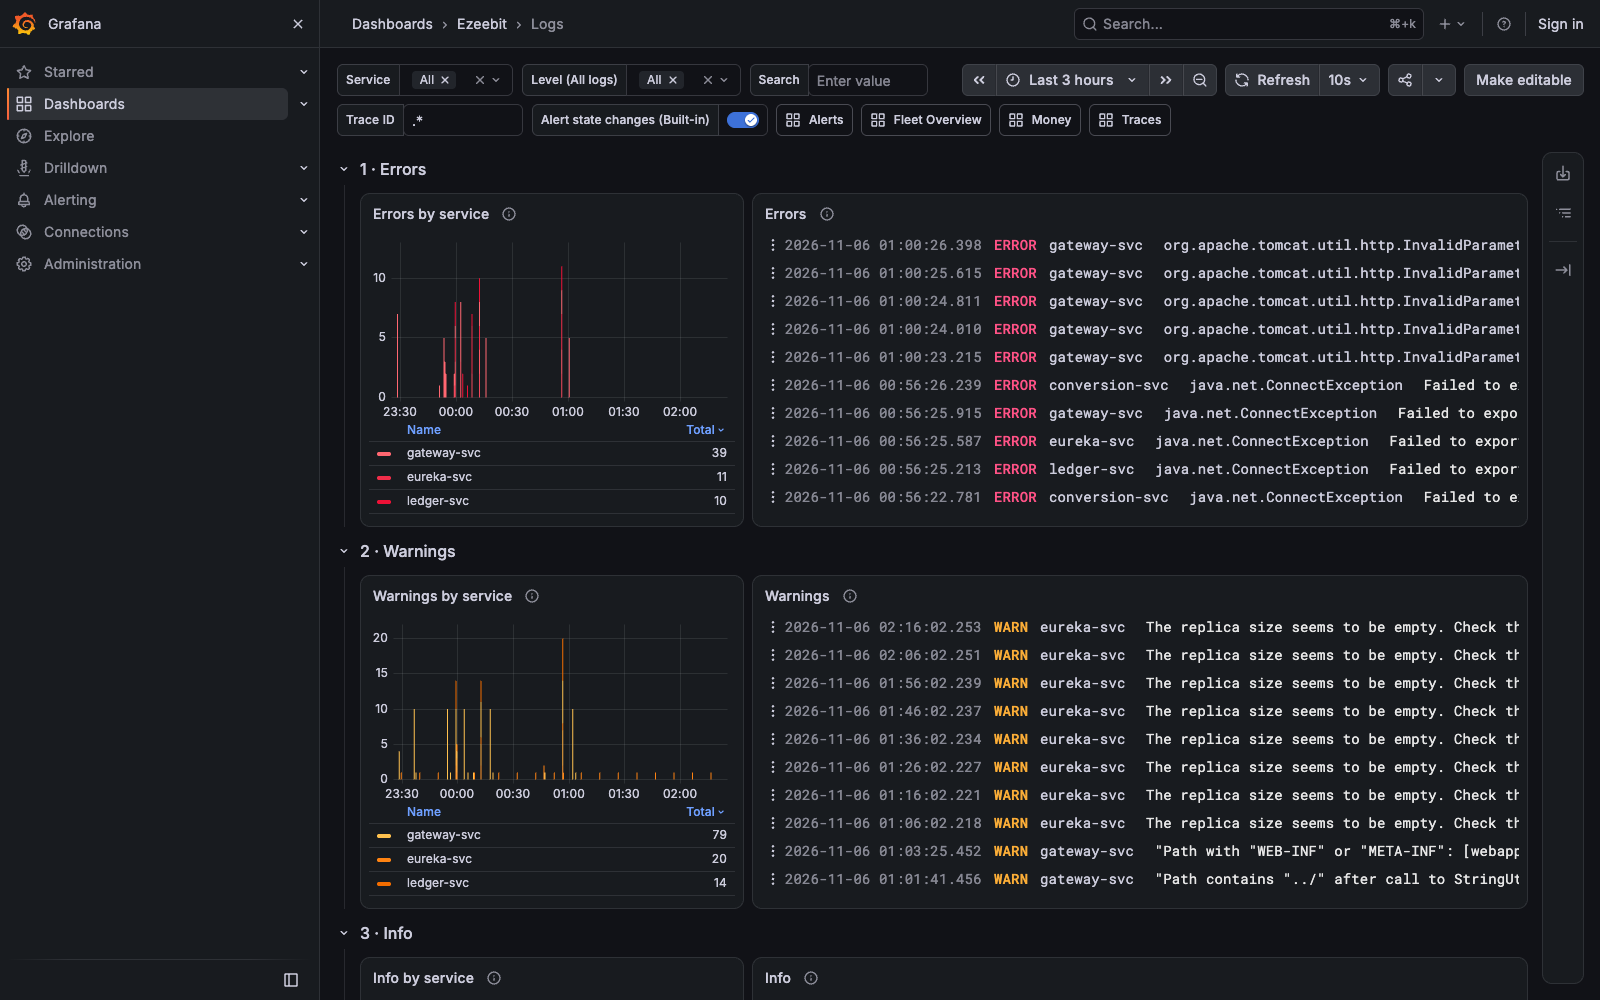
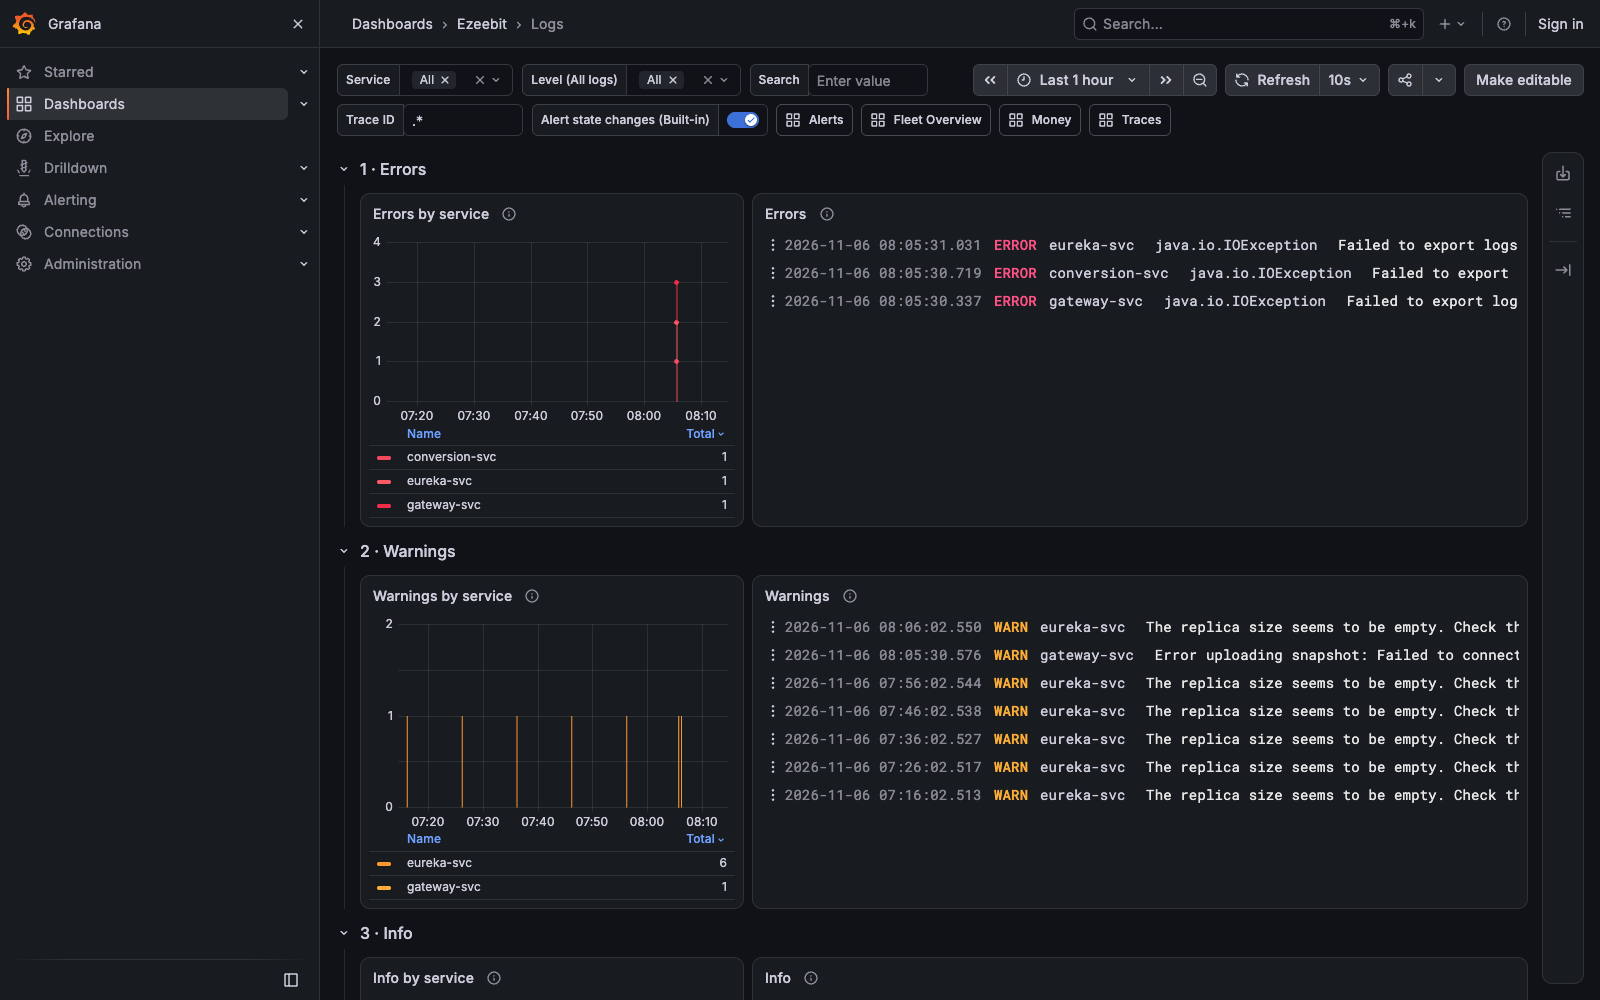
Logs screenshots recaptured on the sectioned Logs board
Every Logs-board screenshot in EVIDENCE.md now shows the board in triage order.

- 2026-11-06-logs-triage.png: last hour, Errors then Warnings, legends per service
- 2026-11-06-logs-trace-correlated.png: a fresh demo conversion's line expanded in 3 · Info with its trace link
- 2026-11-06-logs-trace-opened-in-tempo.png: that trace in Tempo, 3 services, 8 spans
- Old undated captures of the single-panel board removed; captions carry this run's values
- New dated suite 2026-11-06-logs-screenshots-playwright.mjs with its run log (7 of 7 checks, exit 0)

The evidence now pictures the board that ships, with its numbers derived from one recorded run.

Claude-Session: https://claude.ai/code/session_01DpaPR35PxFK4gpEaTSDb9U

diff --git a/EVIDENCE.md b/EVIDENCE.md
@@ -213,33 +213,38 @@ Over gRPC (2026-10-14): one demo conversion is one trace, `f9b98a426a168f23f9bbc
 
 ![The Logs board in triage order](docs/observability/evidence/2026-11-06-logs-triage.png)
 
-The Logs board over the last 3 hours, 2026-11-06: section 1 Errors (gateway-svc 39, eureka-svc 11,
-ledger-svc 10 in the legend, one entry per line with service and exception class), then 2 Warnings
-(gateway-svc 79, eureka-svc 20, ledger-svc 14). Info and All logs are below the fold. Suite checks:
-the service is named right after the level on 16 of 16 error rows and 25 of 25 All logs rows, and a
-trace id in the box reaches 6 of 6 Loki queries
+The Logs board over the last hour, captured 2026-11-06 08:14 (UTC+2). Section 1 Errors holds three
+lines at 08:05:30 to 08:05:31, one each from eureka-svc, conversion-svc and gateway-svc
+(`java.io.IOException`, failed to export logs), so the legend reads 1, 1, 1. Section 2 Warnings reads
+eureka-svc 6 (its ten-minute empty-replica notice) and gateway-svc 1. Each row names the service and
+the exception class right after the level. Info and All logs are below the fold. Over a 3-hour window
+the earlier suite checked that the service follows the level on 16 of 16 error rows and 25 of 25 All
+logs rows, and that a trace id in the box reaches 6 of 6 Loki queries
 ([run log](docs/observability/verification/2026-11-06-logs-service-map-playwright-run.log)).
 
 **Proves** a support engineer reads errors first, sees which service and which exception without
 expanding a line, and narrows every section to one request with one box.
 
-![A log line and its trace](docs/observability/evidence/logs-trace-correlated.png)
+![A log line and its trace](docs/observability/evidence/2026-11-06-logs-trace-correlated.png)
 
-The Logs board filtered to conversion-svc and "conversion accepted", last 15 minutes. The line
-`2026-10-13 21:10:08.642 INFO conversion accepted for ZAR/USDT: COMPLETED` is expanded, and its Links
-section shows `Trace: d39007b360f71551887726931a623902`. Captured 21:18:21.
+The Logs board filtered to conversion-svc and "conversion accepted", last 15 minutes, scrolled to
+section 3 Info. The suite first drove one demo conversion through the gateway (deposit, quote and
+convert each 201, status COMPLETED). Its line `2026-11-06 08:14:24.278 INFO conversion-svc conversion
+accepted for ZAR/USDT: COMPLETED` is expanded, and the Links section shows
+`Trace: 6f4bd66b0395e98f750cfb258e0e13ae`.
 
-**Proves** a log line written inside a request carries its trace id: the same trace the trace view shows
-across three services. Loki's derived field turns it into a link.
+**Proves** a log line written inside a request carries its trace id, and Loki's derived field turns
+that id into a link.
 
-![The log line's trace opened in Tempo](docs/observability/evidence/logs-trace-opened-in-tempo.png)
+![The log line's trace opened in Tempo](docs/observability/evidence/2026-11-06-logs-trace-opened-in-tempo.png)
 
-Explore on Tempo with a TraceQL query for `d39007b360f71551887726931a623902`. The rendered trace is the
-same gateway-svc conversion: start 21:10:08.626, 17.44 ms, 3 services, 8 spans. Captured 21:18:36.
+Following that link opens Explore on Tempo with a TraceQL query for `6f4bd66b0395e98f750cfb258e0e13ae`.
+The rendered trace is the same gateway-svc conversion: start 08:14:24.246, 33.8 ms, 3 services, 8 spans.
 
-**Proves** clicking the log line's trace link opens Explore on Tempo with that trace id and renders the
-trace. Suite checks "trace_id opens the trace in Tempo" and "the opened trace shows its services"
-passed.
+**Proves** clicking the log line's trace link opens Explore on Tempo with that trace id, and renders the
+trace across gateway-svc, conversion-svc and ledger-svc. All three captures and their 7 checks come
+from [2026-11-06-logs-screenshots-playwright.mjs](docs/observability/verification/2026-11-06-logs-screenshots-playwright.mjs)
+([run log](docs/observability/verification/2026-11-06-logs-screenshots-playwright-run.log), exit 0).
 
 ### Alerts
 
